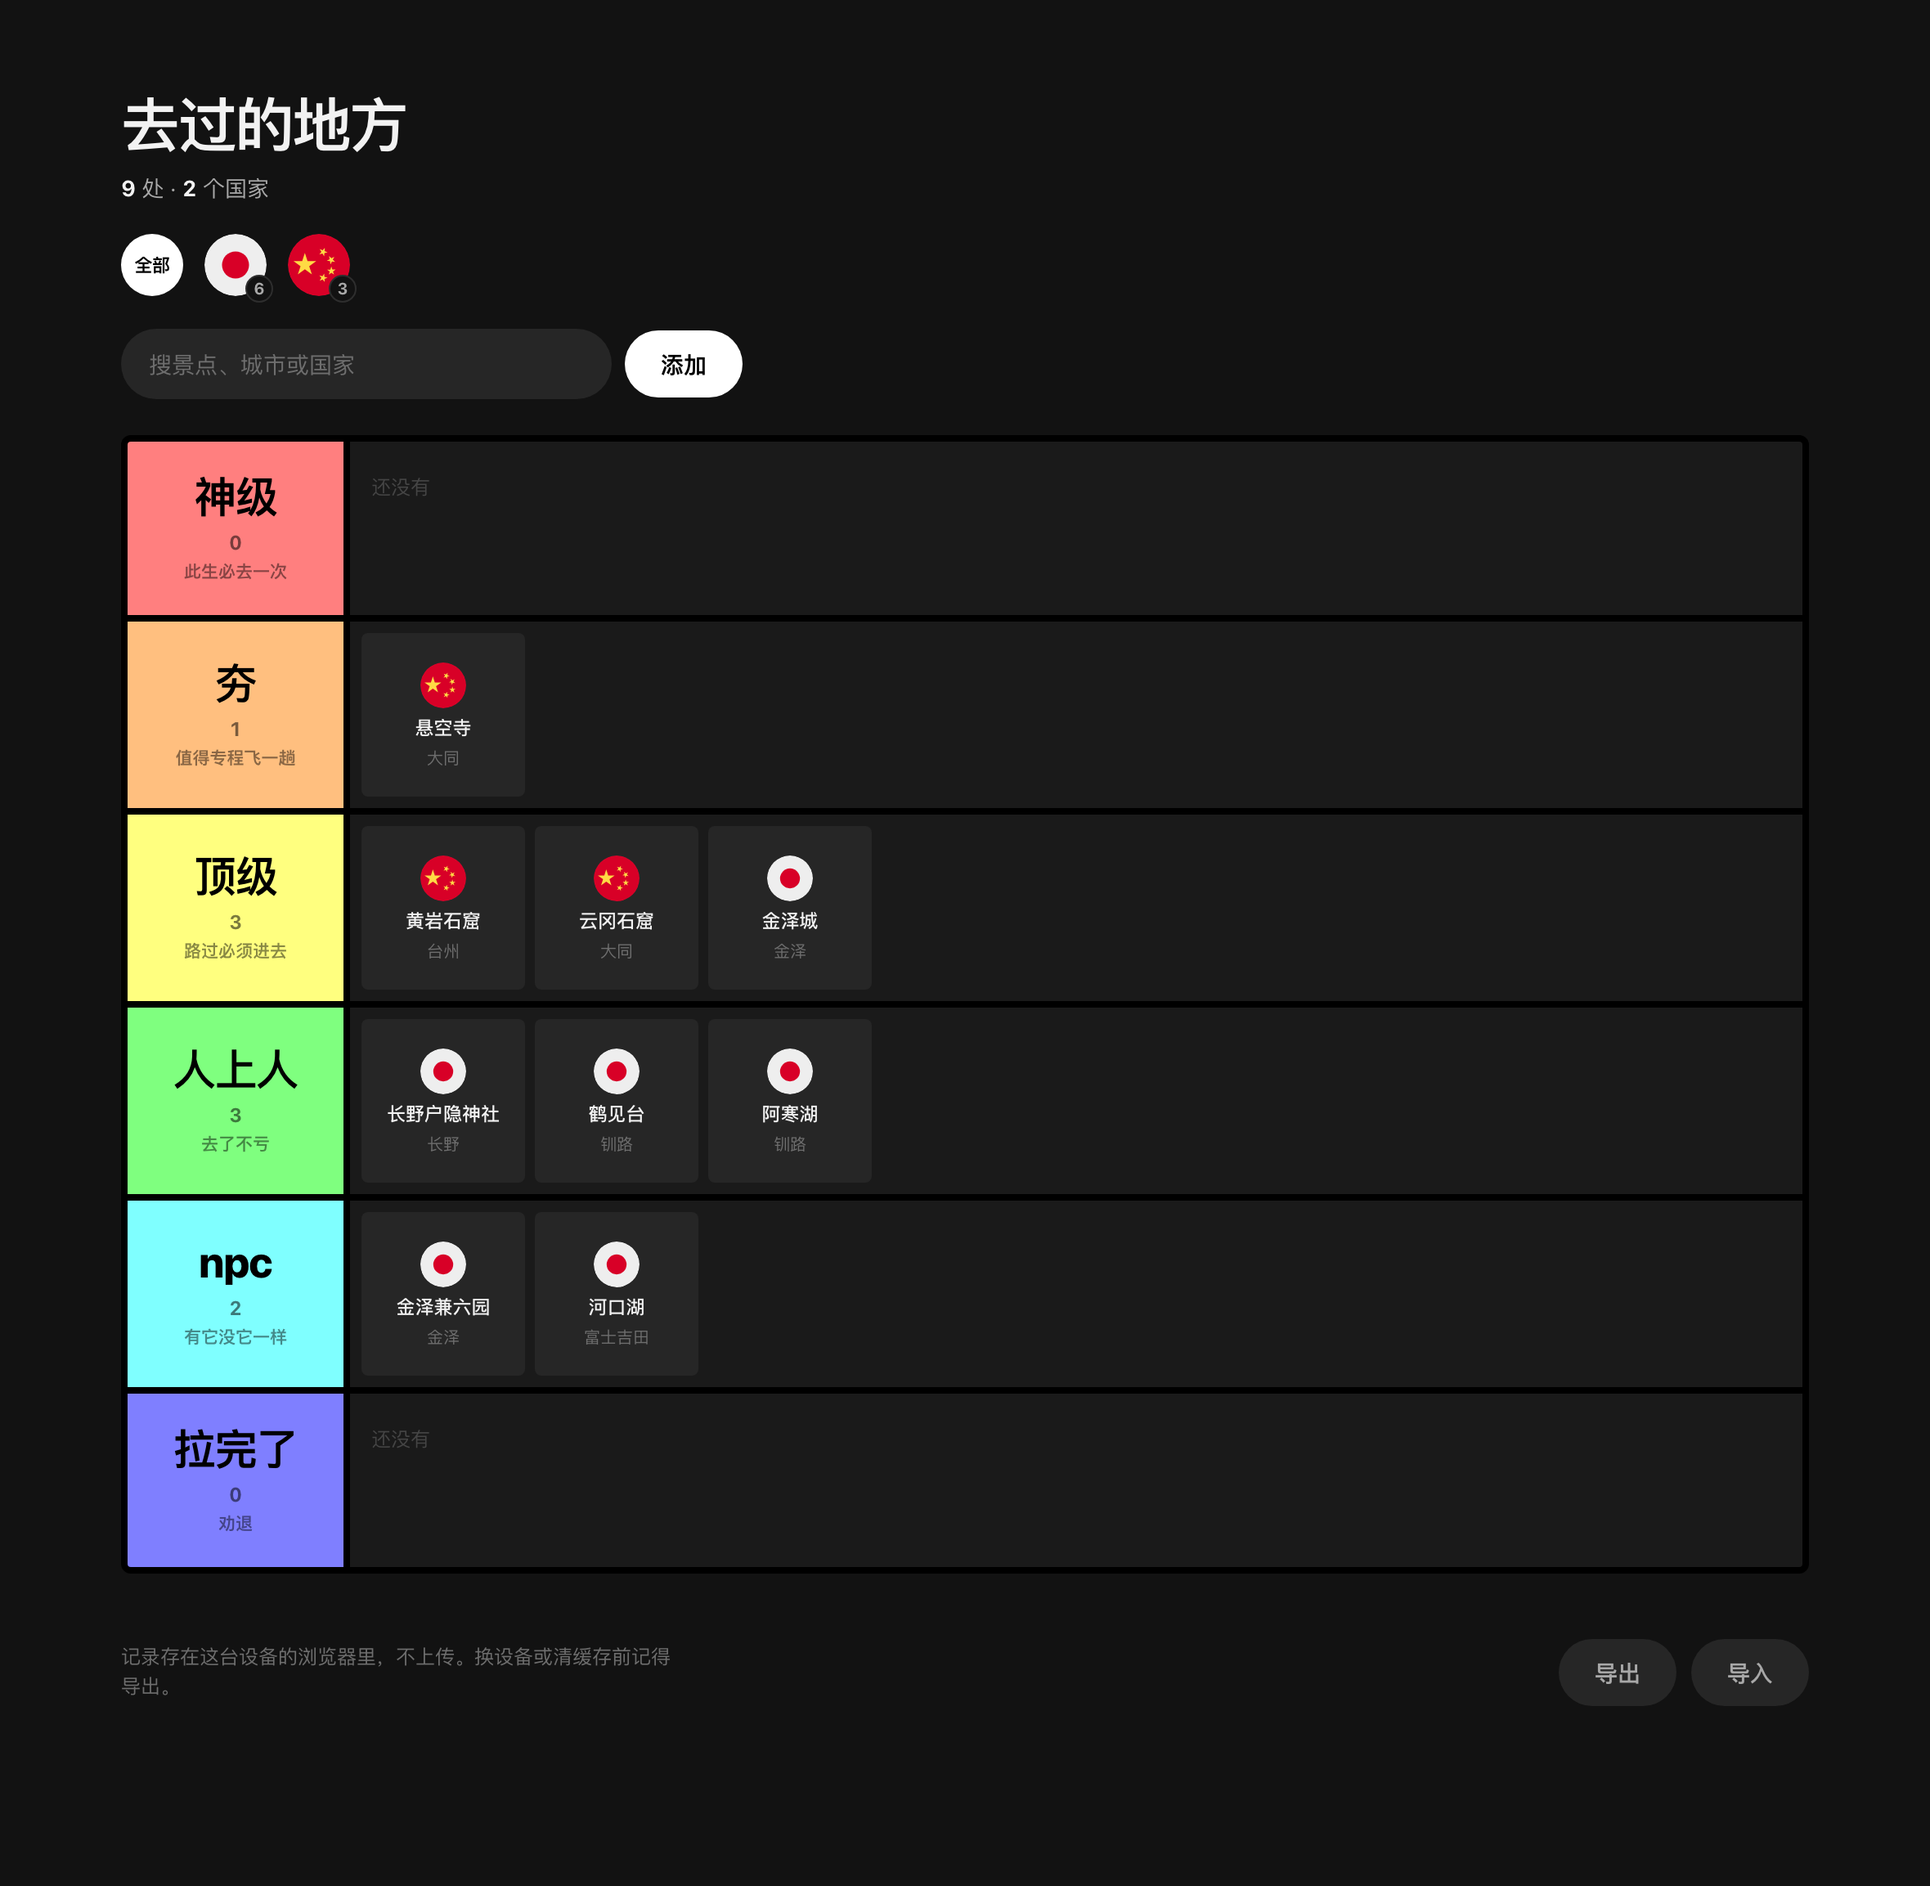
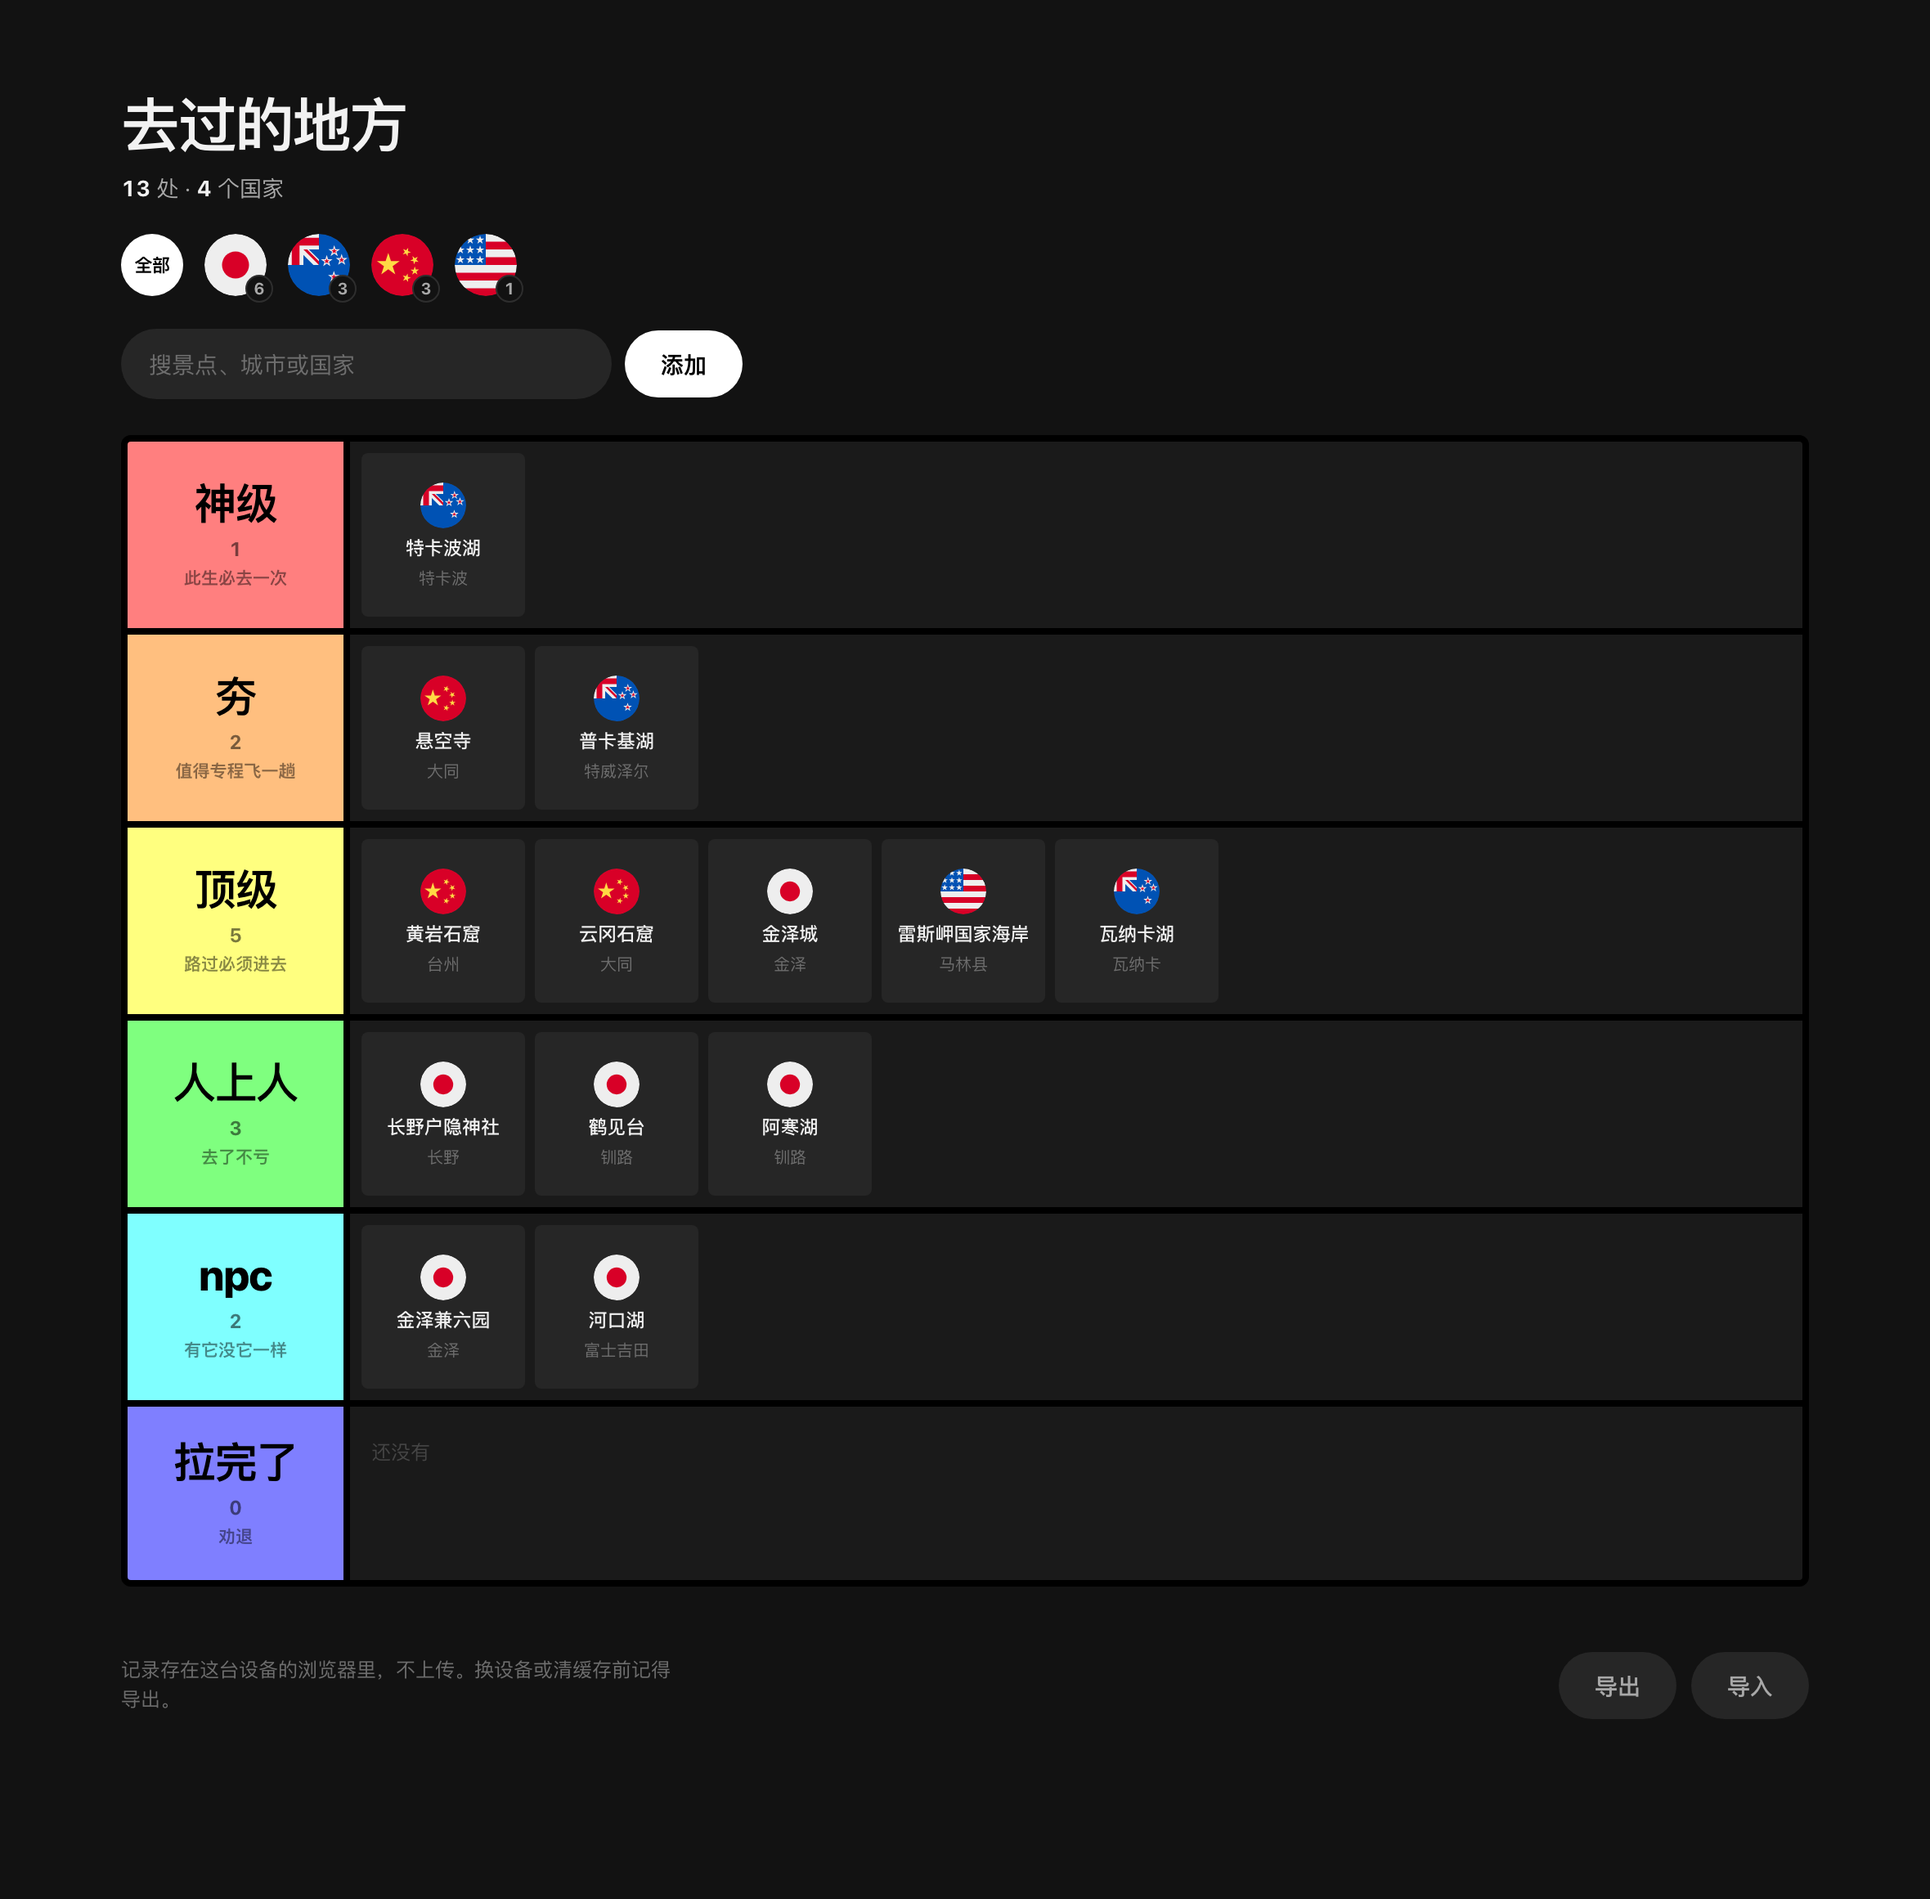
新增 4 个景点（美国 1、新西兰 3）
神级  特卡波湖      特卡波     新西兰
  夯    普卡基湖      特威泽尔   新西兰
  顶级  雷斯岬国家海岸 马林县     美国
  顶级  瓦纳卡湖      瓦纳卡     新西兰

共 13 处 / 4 个国家。神级档首次有内容。
名称统一译为中文，与现有条目一致；us 和 nz 的国旗 CDN 上都有，已验证加载。

雷斯岬在加州马林县的非建制区，不属于任何市，填的是县；
其余三个填所在或最近的镇市。待确认是否要换成更好认的锚点。

模板同步预填 13 条。测试 55 项全过。

diff --git a/spots.js b/spots.js
@@ -2,13 +2,17 @@
    tier 取 shen / hang / top / ren / npc / la
    （神级 / 夯 / 顶级 / 人上人 / npc / 拉完了） */
 window.SPOTS = [
-  { "name": "黄岩石窟"    , "city": "台州"    , "country": "中国", "tier": "top" },
-  { "name": "云冈石窟"    , "city": "大同"    , "country": "中国", "tier": "top" },
-  { "name": "悬空寺"      , "city": "大同"    , "country": "中国", "tier": "hang" },
-  { "name": "长野户隐神社", "city": "长野"    , "country": "日本", "tier": "ren" },
-  { "name": "金泽城"      , "city": "金泽"    , "country": "日本", "tier": "top" },
-  { "name": "金泽兼六园"  , "city": "金泽"    , "country": "日本", "tier": "npc" },
-  { "name": "河口湖"      , "city": "富士吉田", "country": "日本", "tier": "npc" },
-  { "name": "鹤见台"      , "city": "钏路"    , "country": "日本", "tier": "ren" },
-  { "name": "阿寒湖"      , "city": "钏路"    , "country": "日本", "tier": "ren" }
+  { "name": "黄岩石窟"      , "city": "台州"    , "country": "中国"  , "tier": "top" },
+  { "name": "云冈石窟"      , "city": "大同"    , "country": "中国"  , "tier": "top" },
+  { "name": "悬空寺"        , "city": "大同"    , "country": "中国"  , "tier": "hang" },
+  { "name": "长野户隐神社"  , "city": "长野"    , "country": "日本"  , "tier": "ren" },
+  { "name": "金泽城"        , "city": "金泽"    , "country": "日本"  , "tier": "top" },
+  { "name": "金泽兼六园"    , "city": "金泽"    , "country": "日本"  , "tier": "npc" },
+  { "name": "河口湖"        , "city": "富士吉田", "country": "日本"  , "tier": "npc" },
+  { "name": "鹤见台"        , "city": "钏路"    , "country": "日本"  , "tier": "ren" },
+  { "name": "阿寒湖"        , "city": "钏路"    , "country": "日本"  , "tier": "ren" },
+  { "name": "雷斯岬国家海岸", "city": "马林县"  , "country": "美国"  , "tier": "top" },
+  { "name": "瓦纳卡湖"      , "city": "瓦纳卡"  , "country": "新西兰", "tier": "top" },
+  { "name": "普卡基湖"      , "city": "特威泽尔", "country": "新西兰", "tier": "hang" },
+  { "name": "特卡波湖"      , "city": "特卡波"  , "country": "新西兰", "tier": "shen" }
 ];
